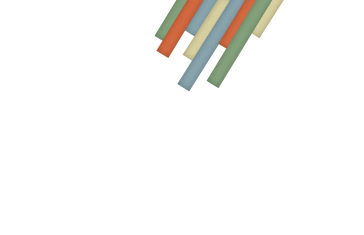
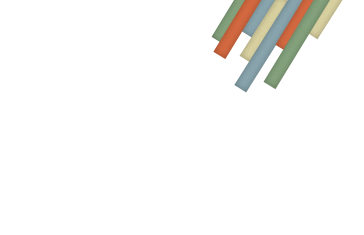
adding some graphic design

Changed region(s): [[0.4231, 0.0, 0.9368, 0.3872]]

diff --git a/public/stylesheets/application.css b/public/stylesheets/application.css
@@ -32,10 +32,9 @@ body, html  {
 
 #container {
 	background-color:white;
-	background-image:url("/images/bkg_container.png");
 	background-position:right top;
 	background-repeat:no-repeat;
-	border:1px solid black;
+	border:1px solid #89a5ae;
 	height:700px;
 	left:50%;
 	margin:10px 10px 10px -500px;
@@ -64,7 +63,7 @@ a {
 	bottom:0;
 	margin-left:20px;
 	position:absolute;
-	top:95px;
+	top:88px;
 	width:960px;
 }
 
@@ -86,9 +85,17 @@ a {
 	width:20px;
 }
 
-#user_nav input{ 
-	background:none; 
-	border:none;
+#sign_in input{ 
+	font-family:“Helvetica Neue”,Arial,Helvetica,sans-serif;
+	font-size:12px;
+	text-decoration:underline;
+}
+
+#sign_in a {
+	margin-top:0;
+	position:relative;
+	text-decoration:none !important;
+	top:-3px;
 }
 
 #logout {
@@ -115,7 +122,12 @@ a {
 	top:-53px;
 }
 
-
+#flash {
+	left:628px;
+	position:absolute;
+	top:81px;
+	z-index:200;
+}
 
 /* Index Page */ 
 
@@ -129,17 +141,17 @@ a {
 }
 
 #top_timelines { 
-	border-right:1px solid black;
 	height:400px;
 	position:absolute;
 	top:30px;
 	width:460px;
+	left:20px;
 }
 
 
 #user_timelines {
 	position:absolute; 
-	left:500px;
+	left:540px;
 	top:30px;
 }
 
